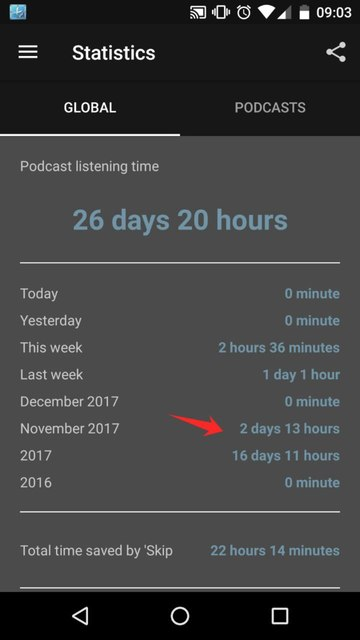
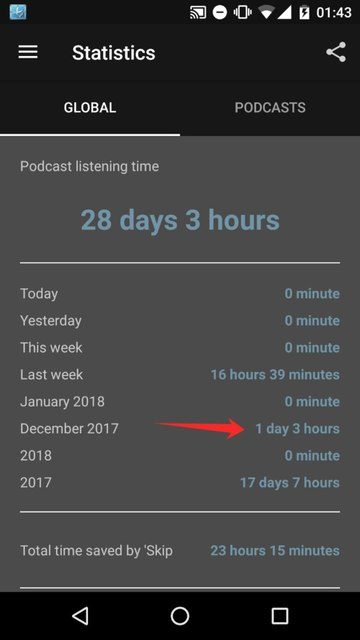
Finish the post with my stats for December 2017

diff --git a/content/post/stats-dec-2017.md b/content/post/stats-dec-2017.md
@@ -1,8 +1,7 @@
 +++
 title = "Stats for Dec, 2017"
-date = "2018-01-01"
+date = "2018-01-07"
 tags = ["stats","personal","english"]
-draft = true
 +++
 
 Came back from a travel last month and just packed my stuff to travel
@@ -10,26 +9,29 @@ again this month. Let's see if it affected my performance.
 
 ### Books
 
+I was traveling this month, so as usual, I'm not reading/listening to
+audiobooks because I prefer to focus on the place I'm visiting. For
+this reason, I did not finish any book this month.
+
+With that said, it is the first time I have 4 books on my reading list
+at the same time.
+
 [![List of books read this month](/images/stats/2017/dec/goodreads.png "List of books read this month")](https://www.goodreads.com/pothix
 "")
 
-Read three books this month. My first book of H.P. Lovecraft,
-called [At the mountains of madness](http://amzn.to/2AO5IPW) was one
-of them. It was an interesting experience to read it. I also read
-about [minimalism](http://amzn.to/2nqZG2h) just to realize that I'm a
-minimalism since forever. If you like minimalism I also recommend to
-listen to their [podcast](https://www.theminimalists.com/podcast/) and
-read their website.
+[Elixir in Action](http://amzn.to/2EibMyt) is there for some time
+now. I really like Elixir and want to finish it as soon as I have the
+time. I'm also playing with Rust nowadays, so I'm
+reading [Programming Rust](http://amzn.to/2FafTxv) as well.
 
-The last book is [On power](http://amzn.to/2Ath5tX) which was probably
-the worst book this year. It was so small that I could finish but I
-can't say that I learned a lot from it.
+[The art of invisibility](http://amzn.to/2CQn5Bz) is the current
+audiobook and I hope to finish that as soon as I listen to all the
+Podcast episodes piled since last
+month.
 
-I also started
-reading [The Rust Programming language](http://amzn.to/2nrzm8p)
-because I'm playing with Rust a little bit. I still want to
-finish [Elixir in Action](http://amzn.to/2ztCDZU) but it will take a
-while.
+[Hiding in unnatural happiness](http://amzn.to/2FcD6PU) is a book I
+received from a monk while in York. I'm not in a rush with this one
+but I want to finish soon, it's really small.
 
 ### Articles
 
@@ -42,18 +44,17 @@ var uls=document.body.getElementsByTagName("ul");
 for(var i=0; i<uls.length; i++) {
     console.log(uls[i].children.length)
 }
-1255
-931
+1296
+946
 ```
 
-It means I have **1255 articles Unread** and **931 articles
-Read**. Comparing with my results from the last month (**1230 unread**
-and **905 read**), I got around **1.7% more unread articles** and **1%
+It means I have **1296 articles Unread** and **946 articles
+Read**. Comparing with my results from the last month (**1255 unread**
+and **931 read**), I got around **1% more unread articles** and **1%
 more read articles**.
 
-Almost the same growth of the last month. For me, it means that it was
-a good thing to check my Feedly once a week but that doesn't change
-the number of articles I read and it's probably the new delicious.
+My unread count is not growing so fast anymore and that is a good
+thing.
 
 ### Coding
 
@@ -62,30 +63,31 @@ since the last post.
 
 [![Hours of coding on Wakatime this month](/images/stats/2017/dec/wakatime-coding.png "Hours of coding on Wakatime this month")](https://wakatime.com/@PotHix "")
 
-The empty days are related to a holiday in Brazil and a huge amount of technical tickets and support for our APIs during that week. It was the price for the focused work in the week before. :)
+Nothing new in this chart this month. The blank parts are related to
+the New Year and Christmas holidays.
 
 [![Languages used during this month on Wakatime](/images/stats/2017/dec/wakatime-languages.png "Languages used during this month on Wakatime")](https://wakatime.com/@PotHix "")
 
-`markdown` is usually the most used language because I write long texts in emacs before posting on [Twist](https://twistapp.com). I removed the `bash` plugin from my terminal in the middle of the month so that 38% doesn't make much sense. And then... **Rust**! It was a fun week.
+`markdown` is usually the most used language because I write long texts in emacs before posting on [Twist](https://twistapp.com). 
+After that, we have Python and Rust! 😀
 
 [![Editors used during this month on Wakatime](/images/stats/2017/dec/wakatime-editors.png "Editors used during this month on Wakatime")](https://wakatime.com/@PotHix "")
 
-Nothing new here. Emacs at the top, bash being removed and Vim.
+Just removed bash from the reports and now we have Emacs as the only editor being used (it's strange to not have any Vim this month) 🤔
 
 ### Speaking
 
-+ **Desconstruindo a web** at [Codus](http://www.codus.com.br/) tech-talks
-+ **Desconstruindo a web - Sua app ruby end to end** at [TOTVS Tech day](http://www.totvstechday.io/)
-
-Here is the chart comparing to my goal for this year:
+No presentations this month. 😀
 
 [![Burn down chart for my presentations](/images/stats/2017/dec/presentations.png "Burn down chart for my presentations")](/images/stats/2017/dec/presentations.png "")
 
-My first goal was to speak 19 times with 1 international talk and I
-reached. After reaching the first goal I set a new goal: reach **25
-talks this year** and I just met it. Speak 25 times in one year is
-more than I could have ever imagined. Now it's time to take a break
-and enjoy the last month of the year. :)
+I already reached all my goals for the year and was OK to not speak
+during December. I admit that I tried to speak while I was in York
+but could not find any local meetup to speak. :P
+
+I had the chance to participate in two meetups
+of [York developers](https://www.yorkdevelopers.org/) but
+unfortunately, there were no slots to speak.
 
 ### Completed tasks
 
@@ -93,11 +95,11 @@ This is the number of tasks completed on [Todoist](https://todoist.com).
 
 [![Amount of tasks completed this month](/images/stats/2017/dec/tasks-completed.png "Amount of tasks completed this month")](/images/stats/2017/dec/tasks-completed.png)
 
-**404 tasks** completed this month (**17 more** than last month).
+**306 tasks** completed this month (**98 less** than last month).
 
-This time I have some other colors on the chart. It's related to
-internal Todoist projects but most part of it is still personal (red)
-and work-related (blue).
+Many holidays and traveling in the last week of the year. I was
+totally off and did not check my tasks in these days, this is why I
+don't have many tasks done.
 
 ### Podcasts
 
@@ -106,7 +108,11 @@ Here is my
 
 [![Amount of time spent listening to Podcasts this month](/images/stats/2017/dec/podcasts.jpg "Amount of time spent listening to Podcasts this month")](/images/stats/2017/dec/podcasts.jpg)
 
-**2 days and 13 hours** of podcast time, just 4 hours more than last month. It means that I spent a lot of time listening to Podcasts again. 
+**1 day and 3 hours** of podcast time. I decided to not listen to any
+podcast while I was in York because I wanted to enjoy every single
+moment while walking in the streets. I usually use Podcasts as a way
+to escape from my boring routine in my working days but it was not
+boring in York. 😀
 
 As usual, here is the list of Podcasts and their times:
 
@@ -124,45 +130,50 @@ Here is the data from my time tracking software, [Toggl](https://toggl.com):
 
 [![Hours working using Toggl](/images/stats/2017/dec/toggl-time-working.png "Hours working using Toggl")](/images/stats/2017/dec/toggl-time-working.png "")
 
-The above chart is just for my freelance and the full-time job. Not so much time as a freelancer, though. I decided to do a deep down about the time I spent working for my full-time employee this month:
+The above chart is just for my freelance and the full-time job. The
+time doing freelance job was 0 hours this month, unfortunately.
 
-[![Hours working for at Doist](/images/stats/2017/dec/toggl-time-working-doist.png "Hours working using Toggl")](/images/stats/2017/dec/toggl-time-working-doist.png "")
-
-We had 20 work days in Brazil this month and I worked for 189 hours, which mean that **I worked 30 hours more than I should**. According to this data, almost 5 of those hours were on the weekends/holidays. I should really improve that.
+We had 18 work days this month and I worked for 157 hours, which mean
+that **I worked 13 hours more than I should**. From these 13 hours,
+1:23 hours was in a Sunday but it was in the airplane so it doesn't
+count :P.
 
 [![Deep vs Shallow work](/images/stats/2017/dec/toggl-time-working-deep-shallow.png "Deep vs Shallow work")](/images/stats/2017/dec/toggl-time-working-deep-shallow.png "")
 
 What I can take from this chart:
 
 * Meetings are stable. I usually have around 4-5 hours of meetings a month. One useful weekly meeting of around 40 min and one 1-1 meeting. If necessary I have small meetings to fix certain problems.
-* Hiring is taking some time. Interviewing, looking for candidates and writing down my opinions take some time
-* Shallow work is still consuming around 65% of my tasks. I'm trying to describe the tasks better so I can understand what I'm considering shallow work. Maybe I will have something next month.
+* Hiring was **really** hard this month. Many interviews and candidates/test reviews.
+* Shallow work is still consuming around 60% of my tasks (I'm not counting Hiring as shallow work, BTW)
 
-There is another chart for my personal projects:
+This time I have a list of what I was doing with my *Shallow
+work*. Most of the time I can't describe what was it but I know part
+of it is my lunch time.
+
+One of the things I can spot as a time consumer here is the
+"Read/Reply Twist". As we are committed to meaningful communication, I
+tend to read most of the messages that mention me somehow and some of
+them are big threads discussing some important problem. It makes sense
+to take some time but I would like to improve it. Maybe next month 😉
+
+Now, let's continue to my personal projects:
 
 [![Hours working on personal projects using Toggl](/images/stats/2017/dec/toggl-time-personal-projects.png "Hours working on personal projects using Toggl")](/images/stats/2017/dec/toggl-time-personal-projects.png "")
 
-It is related to my two talks and my participation in the [hangout by Farol Digital](https://www.youtube.com/watch?v=dCXu-kJE_H4). I'm still not producing a lot of content but it's an improvement.
+Yeah, that's right, no personal projects this month. 😞
+It's kinda sad that I had not personal projects or freelancing this month. I really like to spend some time working on different projects. 
+
+I think it happened for a reason: I was in a different city/country
+and invested all my time in my full-time job and walking around the
+city. I will try to keep that in my mind. 😀
 
 Here is my data from [RescueTime](https://www.rescuetime.com/ref/1403570):
 
 [![Goal of productive hours on RescueTime](/images/stats/2017/dec/rescuetime-productivetime.png "Goal of productive hours on RescueTime")](/images/stats/2017/dec/rescuetime-productivetime.png "")
 
-I changed my browser for [Firefox Quantum](https://www.mozilla.org/firefox/new/)
-but forgot to install the rescuetime extension, so I don't have enough detailed
-data. It will be the same (or worst) for the next month.
-
-Here are the big offenders:
-
-[![Offesors of my goal of productive hours on RescueTime](/images/stats/2017/dec/rescuetime-productivetime-offensors.png "Offenders of my goal of productive hours on RescueTime")](/images/stats/2017/dec/rescuetime-productivetime-offensors.png "")
-
-I just changed Twist to `productive` instead of `distracting`. I'm not
-sure if Twist deserves to be distracting because we usually talk about
-work there and it's not so distracting. With that said, Twist still
-takes a big portion of my time due to the need for communication. It's
-the source of all conversations at Doist, but it's up to us to not
-make communication overwhelming. I'm still working to have the balance
-between communication and "real work", let's see how it goes.
+As expected, I don't have enough data because I changed my browser
+for [Firefox Quantum](https://www.mozilla.org/firefox/new/) and forgot
+to install the rescuetime extension. Shame on me. 😞
 
 
 ### Physical activity
@@ -170,16 +181,17 @@ between communication and "real work", let's see how it goes.
 I'm using my Mi band data to calculate my average steps:
 
 [![Activity data for this month by Mi-Fit app](/images/stats/2017/dec/activity.jpg "Activity data for this month by Mi-Fit app")](/images/stats/2017/dec/activity.jpg "")
+[![Activity data comparison for this month by Mi-Fit app](/images/stats/2017/dec/activity_comparison.jpg "Activity data comparison for this month by Mi-Fit app")](/images/stats/2017/dec/activity-comparison.jpg "")
 
-According to this data, I can conclude that I had a daily average of
-**6.3k** steps (190625/30). It was kinda disappointing as it's below my
-average. I will work on it for the next month. :)
+An average of **10k** steps is good for me. It was better than
+November but worse than October, which was expected.
 
 And these are my steps each day:
 
 [![Amount of steps for this month](/images/stats/2017/dec/physical-activity-steps.png "Amount of steps for this month")](/images/stats/2017/dec/physical-activity-steps.png "")
 
-My max distance was **8.4km** walking in one day:
+My max distance was **17.3km** walking in one day (I was lucky to get
+the tooltip to work when taking the screenshot):
 
 [![Travelled distance this month](/images/stats/2017/dec/physical-activity-distance.png "Travelled distance this month")](/images/stats/2017/dec/physical-activity-distance.png "")
 
@@ -187,19 +199,27 @@ Here is my sleep data for this month:
 
 [![Amount of sleep for this month](/images/stats/2017/dec/sleep.jpg "Amount of sleep for this month")](/images/stats/2017/dec/sleep.jpg "")
 
-Some more minutes of average sleeping (**7h31m** for the last month)
-but also less deep sleeping (last month was **1h58**) 😢
+As we can see in the chart, I had more minutes of average sleeping
+this month (**7h38m** for the last month) but less deep sleeping (last
+month was **1h44**) 😢
+
+Considering the whole user base from mi-band:
+
+[![Sleep comparison with the user base](/images/stats/2017/dec/sleep_deep_comparison.jpg "Sleep comparison with the user base")](/images/stats/2017/dec/sleep_deep_comparison.jpg "")
+
+I'm below average regarding sleeping earlier and on average regarding
+deep sleeping.
 
 ### TV Shows
 
-According to [tvshowtime](https://www.tvshowtime.com) I watched 36
-episodes this month:
+According to [tvshowtime](https://www.tvshowtime.com) I watched 1
+episode this month:
 
 [![TV shows watched this month according to tvshowtime](/images/stats/2017/dec/tvshows.jpg "TV shows watched this month according to tvshowtime")](/images/stats/2017/dec/tvshows.jpg "")
 
-This month we finished **Orphan Black (season 4 and 5)** and started **Billions**.
+It was probably **Billions** when I got home. 😀
 
-I spent **1 day and 3 hours** of my life watching TV shows this month.
+I spent **1 hour** of my life watching TV shows this month. Not bad 😉.
 
 
 ### Words written and errors
@@ -211,37 +231,44 @@ while.
 
 Here are my stats for this month:
 
-+ **71062** words written (in September it was **73969**)
-+ **1091** corrections made (in September it was **1826**)
-+ **17429** unique words (in September it was **17139**)
++ **93129** words written (**71062** last month)
++ **1380** corrections made (**1091** last month)
++ **11979** unique words (**17429** last month)
 
-I'm comparing to September because October was not a typical month. I had fewer words written but I can see that I had fewer corrections made and more unique words! That makes me feel good. 😁
+I wrote a lot this month. Almost 20k words more than last month but I
+also made more mistakes, almost in the same proportions. My vocabulary
+did not increase in the same rhythm though.
 
 ### Locations
 
-At the end of the month, I went to York (the old York, in England, not the New York, in the USA) to work from there for 1 month. So, a new country was added:
-
-[![New countries](/images/stats/2017/dec/location-countries.png "New countries")](/images/stats/2017/dec/location-countries.png "")
-
-I think it was actually part of the list from when I visited London but it's worth posting. The city of York was also added:
+New cities were added this month:
 
 [![New cities](/images/stats/2017/dec/location-cities.png "New cities")](/images/stats/2017/dec/location-cities.png "")
 
-So, in summary:
+The missing city is Durham.
+
+Here are the general data:
 
 [![General view of my locations data](/images/stats/2017/dec/location-general.png "General view of my locations data")](/images/stats/2017/dec/location-general.png "")
 
-One new city and 16 new places.
+It's really weird that some countries are disappearing. 😞 Last month
+I had 7 countries but now I have 6 again. I
+used
+[Matador network](https://matadornetwork.com/travel-map/22396bbf7ad1af6c0d8758cb54077e13-1515270907) to
+track the countries and I visited **8 countries, not 6**.
+
+[![Countries map](/images/stats/2017/dec/location-countries.png "Countries map")](/images/stats/2017/dec/location-countries.png "")
 
 Not so useful, but here is the time spent on vehicles:
 
 [![Location time and distance](/images/stats/2017/dec/location-time-distance.png "Location time and distance")](/images/stats/2017/dec/location-time-distance.png "")
 
-It's probably the time spent in the taxi to the airport and in the bus from Manchester to Leeds and York.
+It's probably the time spent in taxis from home to the airport and
+also related to the trip we made in North Yorkshire by van.
 
 [![Kms to the moon](/images/stats/2017/dec/location-moon.png "Kms to the moon")](/images/stats/2017/dec/location-moon.png "")
 
-This trip removed 11k km from my distance to the moon. 👍
+This trip removed 12k km from my distance to the moon. 👍
 
 ### Expenses
 
@@ -249,20 +276,19 @@ My expenses for this month:
 
 [![Expenses by category this month](/images/stats/2017/dec/expenses.jpg "Expenses by category this month")](/images/stats/2017/dec/expenses.jpg "")
 
-This chart **represents all my income for this month**. And again, the number is
-not wrong, I did not receive any money this month. The problem I described [in](/post/stats-jul-2017) [the](/post/stats-jun-2017/) [last](/post/stats-aug-2017) [five](/post/stats-sep-2017) [months](/post/stats-oct-2017) still
-persists, for this reason, there's no money coming yet. :(
+This chart **represents all my income for this month**. Yes! You read
+that right, I finally received some freaking money after six months! 🎉
 
-This month I finally had some good news and the process is almost done, just waiting for the final document. Hope to have something to show next month.
+This money is still not related to my current job but I already
+received my payment, just need to go through the bureaucracy to be
+able to pay the taxes and receive that in my personal account.
 
-And again... If you're reading this every month, you already know that
-my wife is paying all of our bills until my situation gets back to
-normal and I'm really glad to have someone to rely on when things like
-these happen. ❤
+I will definitely write about this whole process soon.
 
-This month is back to normal and my wife helped to keep our expenses
-in a good shape. My total savings **increased by 0.6%** and now I have
-**73.70%** of my goal.
+This month is finally back to normal! My total savings **increased by
+1.9%** and now I have **75.10%** of my goal.
+
+Next month will be **huge!**
 
 
 ### Time to write this blog post
@@ -270,16 +296,14 @@ in a good shape. My total savings **increased by 0.6%** and now I have
 Some people are asking me about how much time it takes to collect all
 the data and write the blog post, so I decided to add this metric
 
-**It took 3 hours and 30 minutes to write this post**
+**It took 3 hours and 02 minutes to write this post**
 
 
 ### Conclusion
 
-Just came back from a trip last month to prepare to travel again this
-month. I'm writing this post from the winter
-of [York](https://goo.gl/maps/zx1s3AeFo982), it's -1 Celsius but feels
-like -7. I worked a lot this month but it enabled me to keep my
-work on schedule for the travel so I think it worth it.
+I'm back to Brazil after one full month working
+from [York](https://goo.gl/maps/zx1s3AeFo982). I have to say that it
+was really great to work from a different place for some time.
 
-I did not receive any money yet but everything is moving forward
-now and I hope to have a nice December with everything set up. :)
+This was the last month of the year so expect a yearly review from me
+soon. 😀
